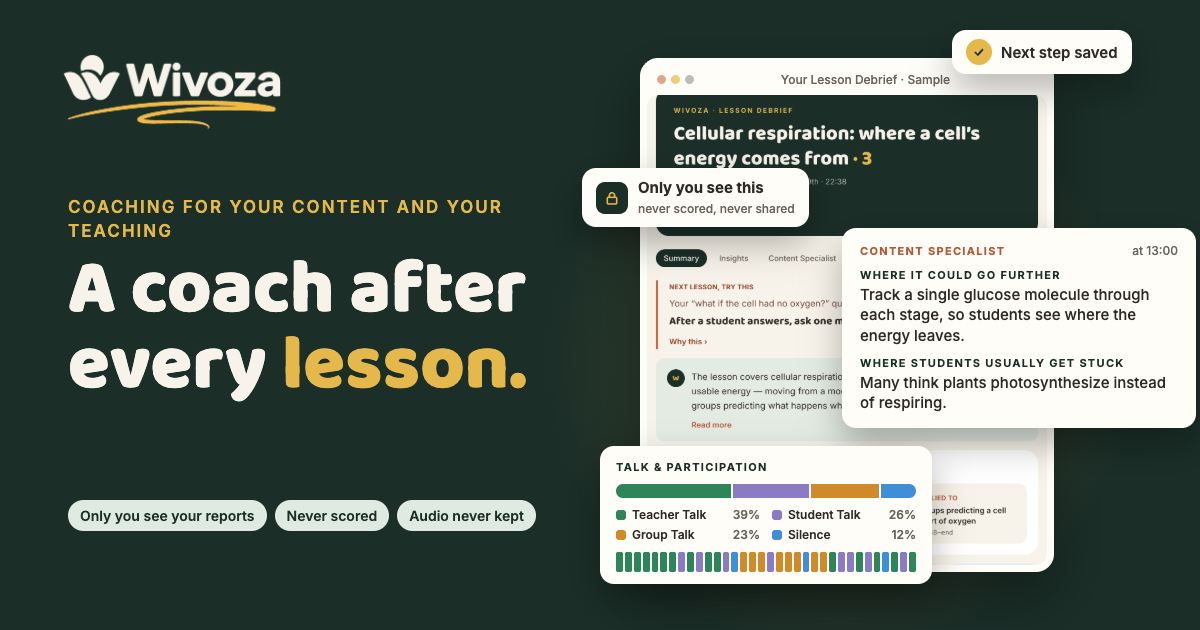
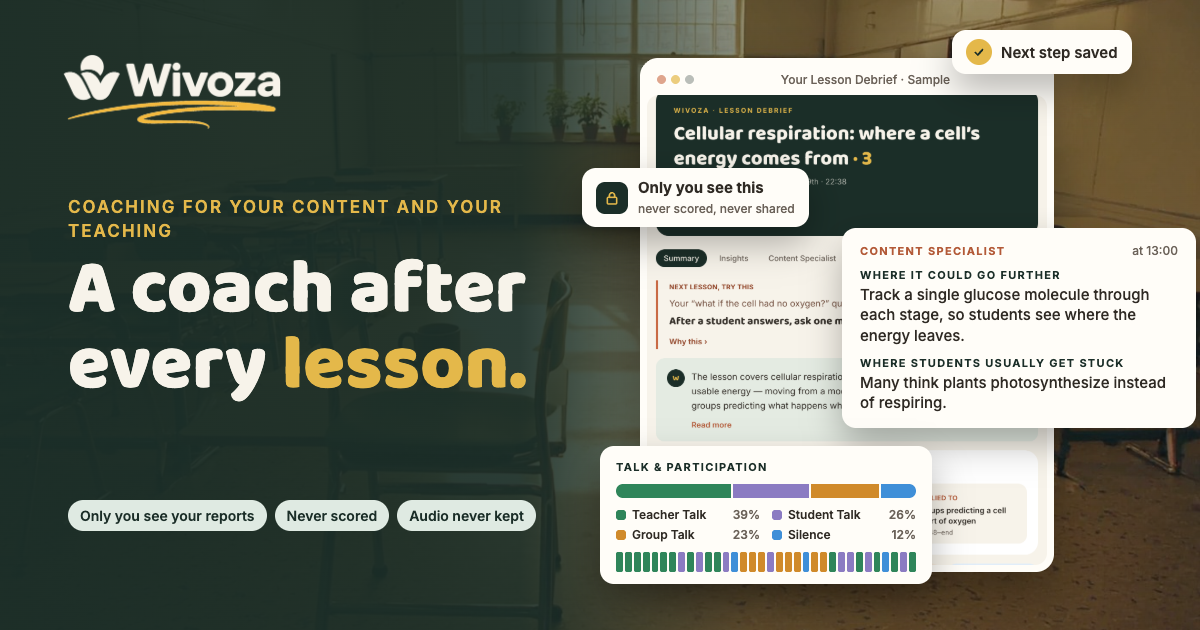
Share card: a coach after every lesson, content and teaching
The card a shared wivoza.com link shows now uses the home page's sample
report with its Content Specialist note and a Talk & Participation card,
over an empty classroom (neither home-page video teacher). The image URL
carries ?v= so social sites fetch the new one.

Changed region(s): [[0.4317, 0.3619, 1.0, 1.0], [0.4317, 0.0, 1.0, 0.4524]]

diff --git a/web/scripts/og-image.html b/web/scripts/og-image.html
@@ -4,6 +4,9 @@
   Participation card, so the card shows both the content and the teaching.
   The report image is public/samples/hero-debrief-summary.png (an invented
   lesson, see scripts/capture-hero.mjs); the talk numbers are invented too.
+  The empty classroom behind it is og-classroom.jpg, a still from the
+  Practice promo (Wivoza-Assets/marketing/practice-promo/stills/shot24),
+  chosen because neither teacher from the home page videos is in it.
   Regenerate:
   "/Applications/Google Chrome.app/Contents/MacOS/Google Chrome" --headless=new --hide-scrollbars --allow-file-access-from-files --window-size=1200,630 --virtual-time-budget=5000 --screenshot=public/og-image.png "file://$PWD/scripts/og-image.html"
   (run from web/) -->
@@ -42,8 +45,11 @@ h1 span{color:#e4b84a}
 .legend div{display:flex;align-items:center;gap:6px}.legend i{width:10px;height:10px;border-radius:3px;display:inline-block}
 .legend span{margin-left:auto;padding-left:4px;color:#6b6259}
 .strip{display:flex;gap:2px;margin-top:10px;height:20px}.strip i{flex:1;border-radius:2px}
+.photo{position:absolute;inset:0;background:url("og-classroom.jpg") 62% center/cover}
+.shade{position:absolute;inset:0;background:linear-gradient(90deg,rgba(27,46,40,.97) 0,rgba(27,46,40,.93) 520px,rgba(27,46,40,.45) 760px,rgba(27,46,40,.30) 1200px)}
+.glow{display:none}
 </style></head><body>
-<div class="glow"></div>
+<div class="photo"></div><div class="shade"></div><div class="glow"></div>
 <img class="logo" src="../public/logo/wivoza-lockup-dark.png">
 <div class="eyebrow">Coaching for your content and your teaching</div>
 <h1>A coach after every <span>lesson.</span></h1>

diff --git a/web/index.html b/web/index.html
@@ -29,7 +29,7 @@
     <meta property="og:image" content="https://www.wivoza.com/og-image.png?v=20261103" />
     <meta property="og:image:width" content="1200" />
     <meta property="og:image:height" content="630" />
-    <meta property="og:image:alt" content="Wivoza: a coach after every lesson, for your content and your teaching. A sample lesson report with a Content Specialist note and a Talk &amp; Participation chart." />
+    <meta property="og:image:alt" content="Wivoza: a coach after every lesson, for your content and your teaching. A sample lesson report with a Content Specialist note and a Talk &amp; Participation chart, over an empty classroom." />
 
     <meta name="twitter:card" content="summary_large_image" />
     <meta name="twitter:title" content="Wivoza — a content coach after every lesson" />
